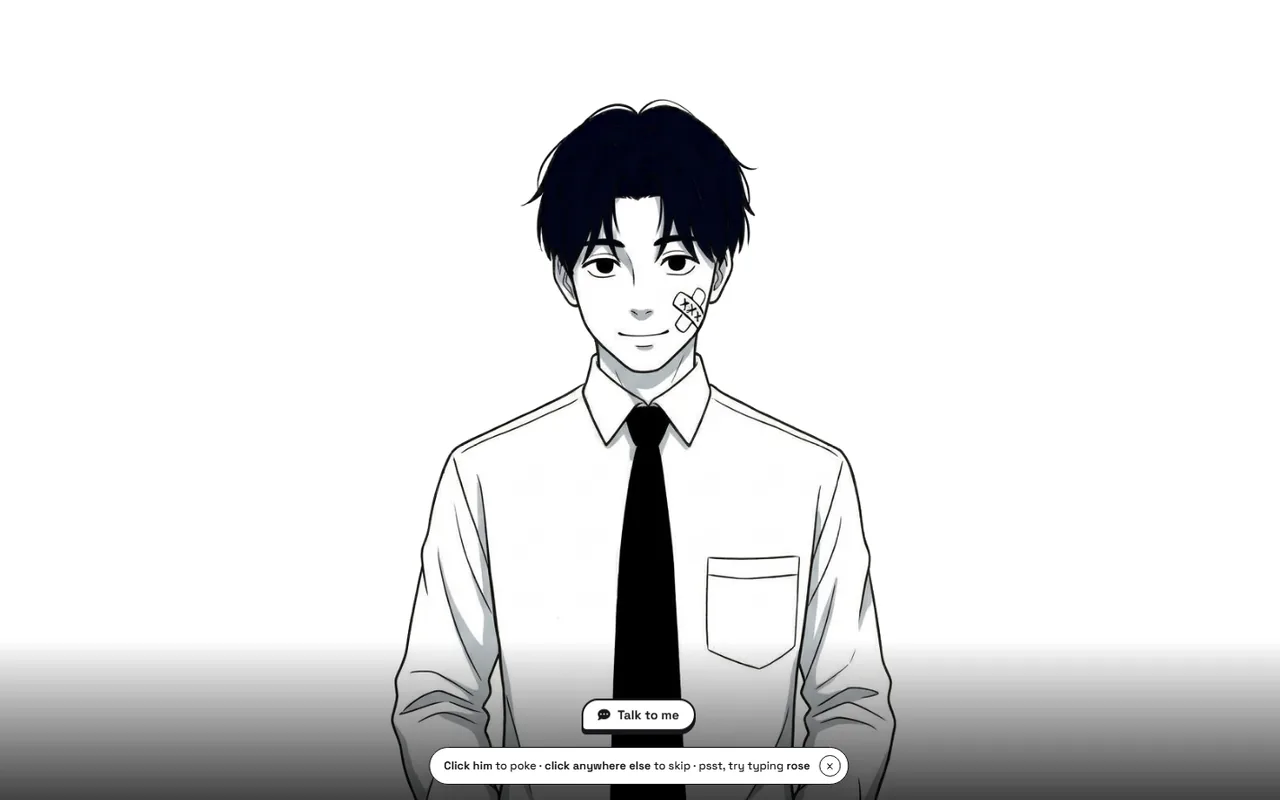
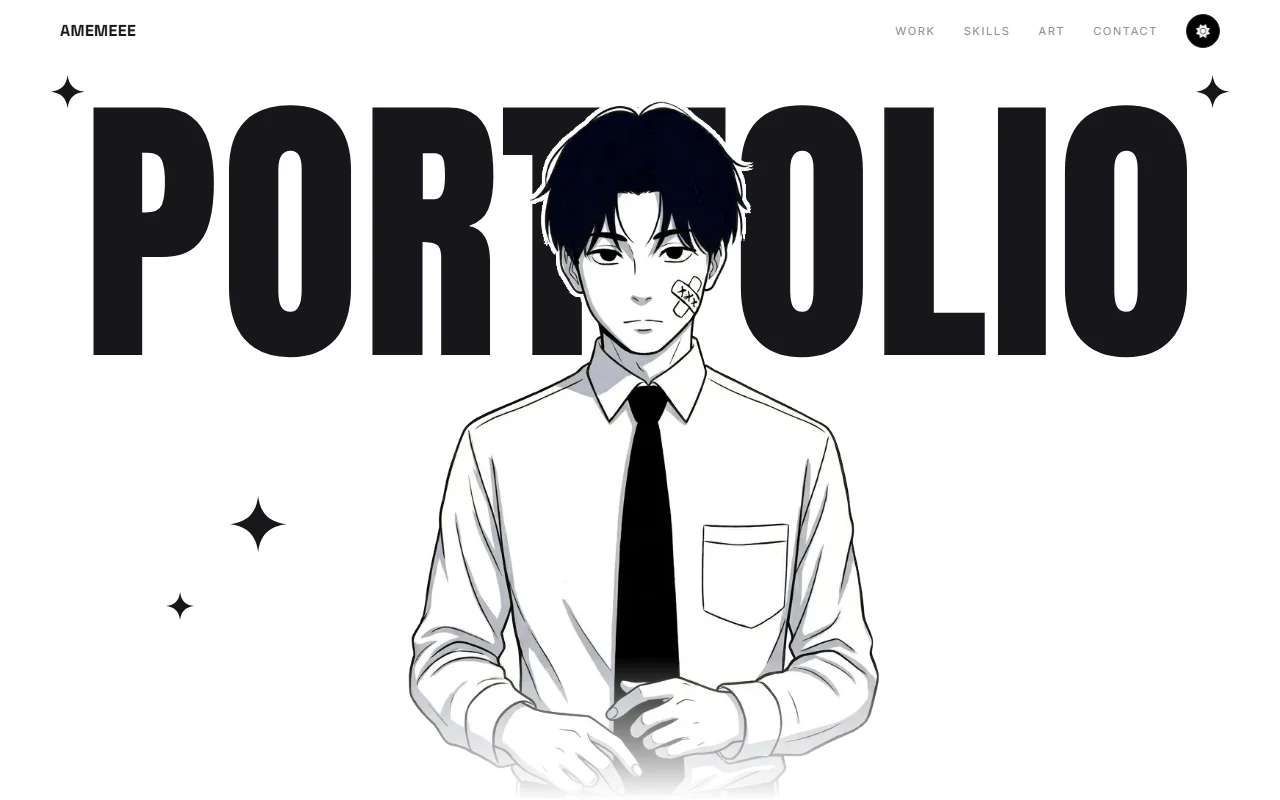
bug fixed

diff --git a/assets/js/character.js b/assets/js/character.js
@@ -235,7 +235,10 @@
     // While he is asleep (the z's are showing) nothing may change his pose except the sleep pose itself. A late timer from
     // rest() used to swap in a smiling pose after he had dozed off, leaving the z's floating over an awake face.
     if (name !== 'sleep' && hero.classList.contains('sleeping')) return;
-    const p = [name, POSES[name] && POSES[name].fallback, 'look', 'fix'].map(n => POSES[n]).find(p => p && p.ok);
+    // Use the wanted pose unless its image has FAILED to load. (Waiting for "decoded and ready" meant a pose whose image was still
+    // loading was swapped for an awake one, which left the sleeping z's over an awake face. The old frame stays painted underneath
+    // until the new one has drawn, so there is no blank flash.)
+    const p = [name, POSES[name] && POSES[name].fallback, 'look', 'fix'].map(n => POSES[n]).find(p => p && p.ok !== false);
     if (!p || p === POSES[pose]) return;
     pose = Object.keys(POSES).find(k => POSES[k] === p);
     // No-flicker swap: keep the old pose painted underneath until the new one has drawn

diff --git a/style.css b/style.css
@@ -1631,3 +1631,7 @@ footer a:hover { color: var(--accent); }
 }
 /* a thin white outline around him, so his black hair doesn't melt into the black letters behind it */
 .hero-char-img { filter: drop-shadow(3px 0 0 #fff) drop-shadow(-3px 0 0 #fff) drop-shadow(0 3px 0 #fff) drop-shadow(0 -3px 0 #fff); }
+
+/* z's: white with a black outline, so they show on the white page and on the black letters behind his head */
+.hero-zzz { color: #fff; -webkit-text-stroke: 4px #17161a; paint-order: stroke fill; }
+.hero-zzz span:nth-child(1) { font-size: 26px; } .hero-zzz span:nth-child(2) { font-size: 34px; } .hero-zzz span:nth-child(3) { font-size: 44px; }
